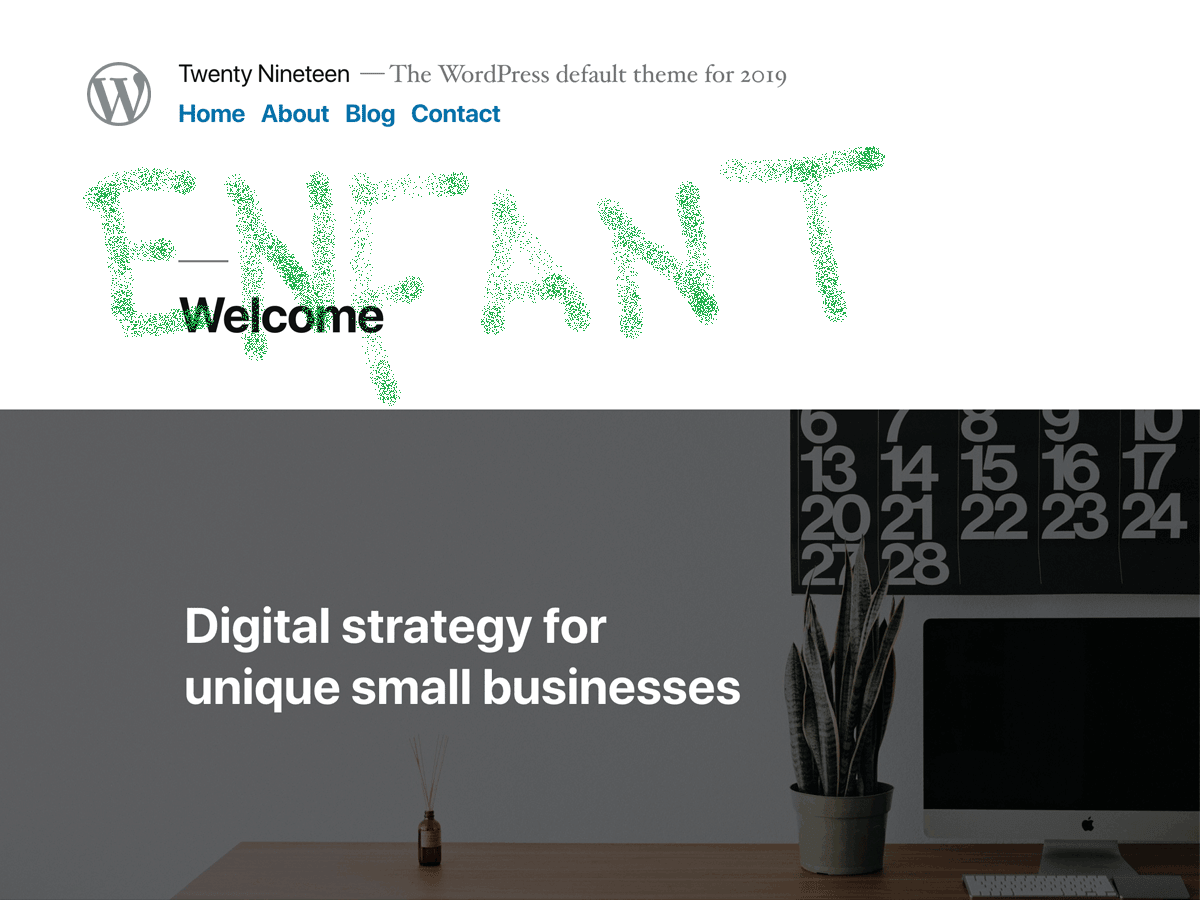
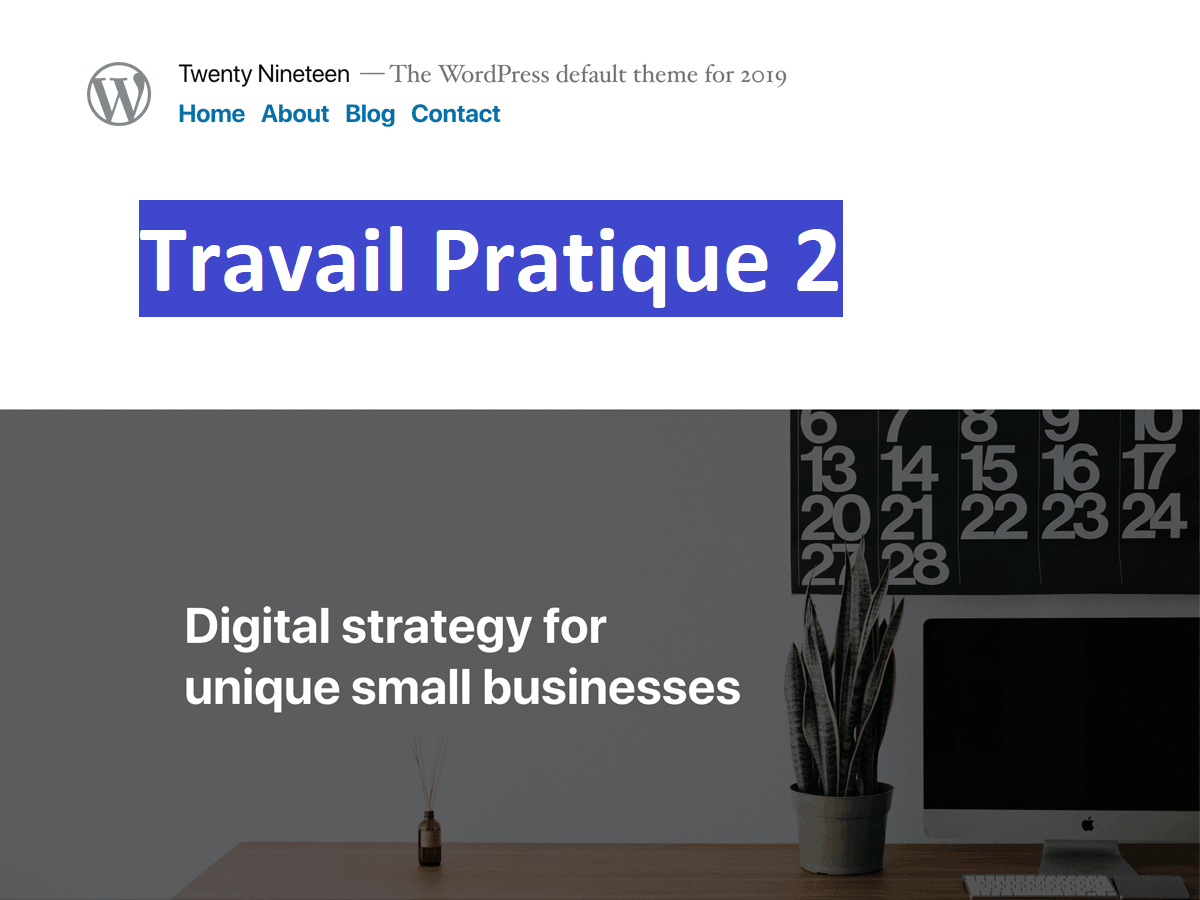
Commit 6: Création des articles évènements

Changed region(s): [[0.0617, 0.1556, 0.74, 0.4044], [0.3083, 0.4044, 0.3392, 0.4356]]

diff --git a/style.scss b/style.scss
@@ -1,5 +1,5 @@
 /*
- Theme Name:   Twenty nineteen Carolanne Legault
+ Theme Name:   Twenty nineteen Travail Pratique 2
  Theme URI:    http://referenced.ca
  Description:  Twenty nineteen enfant Theme
  Author:       Eddy Martin
@@ -9,7 +9,7 @@
  License:      GNU General Public License v2 or later
  License URI:  http://www.gnu.org/licenses/gpl-2.0.html
  Tags:         light, dark, two-columns, right-sidebar, responsive-layout, accessibility-ready
- Text Domain:  twenty-nineteen-legaultCarolanne
+ Text Domain:  twenty-nineteen-TravailPratique2
 */
 
 
